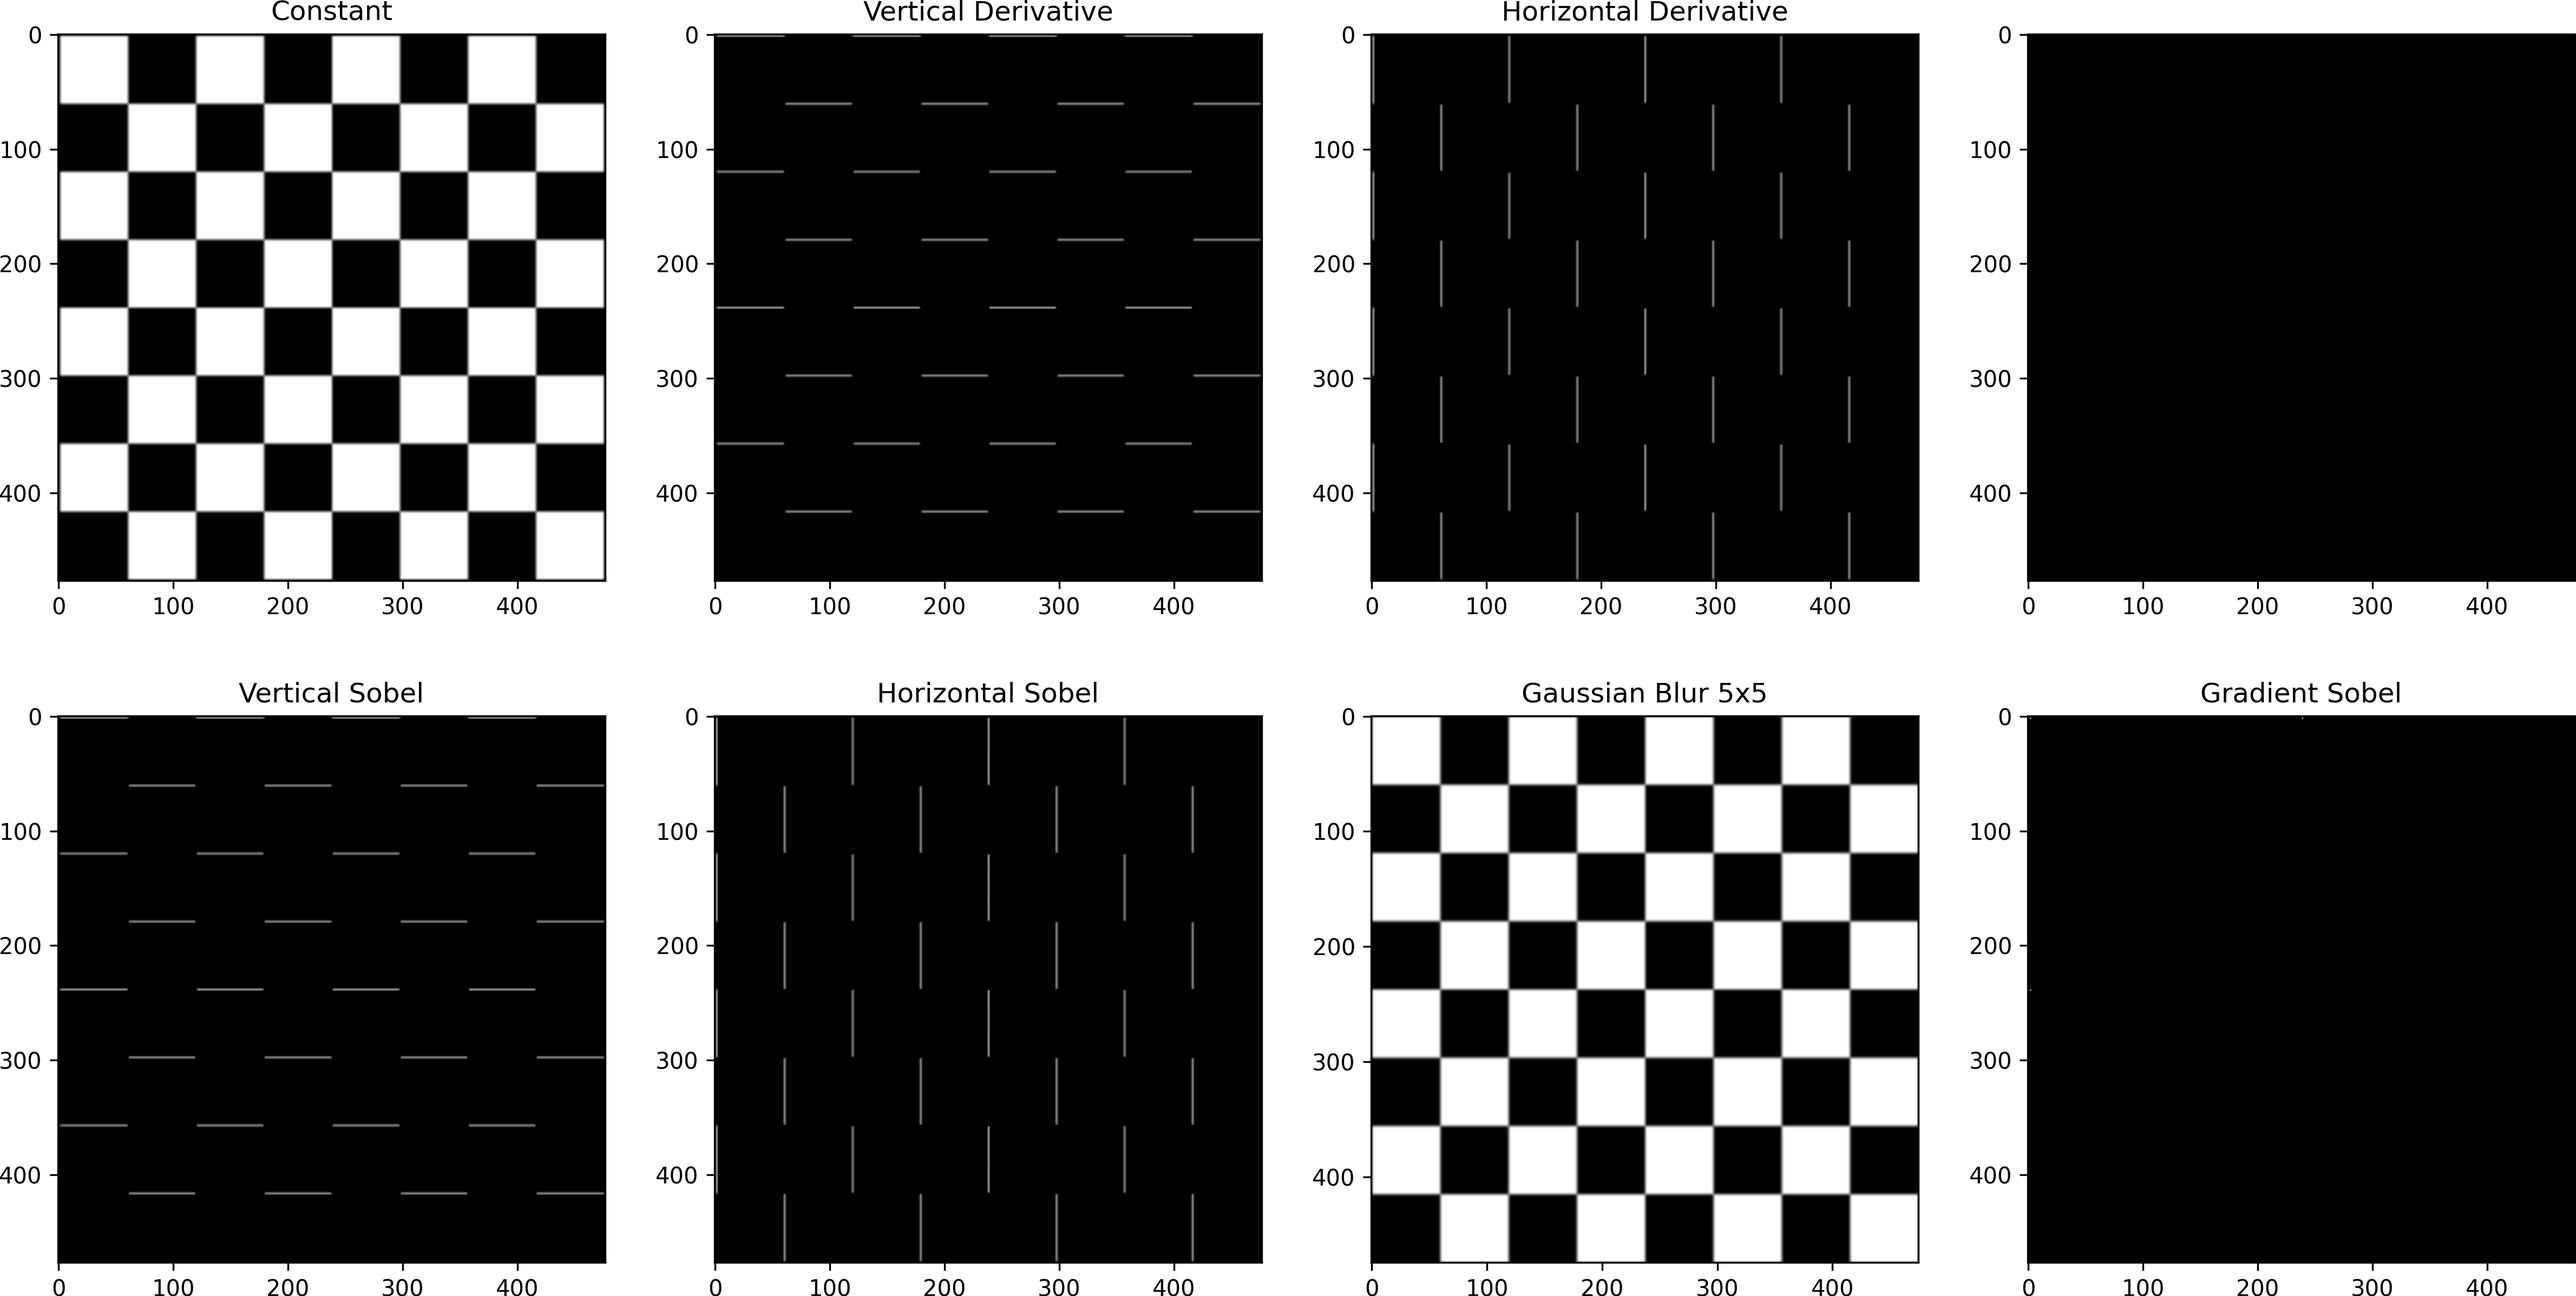
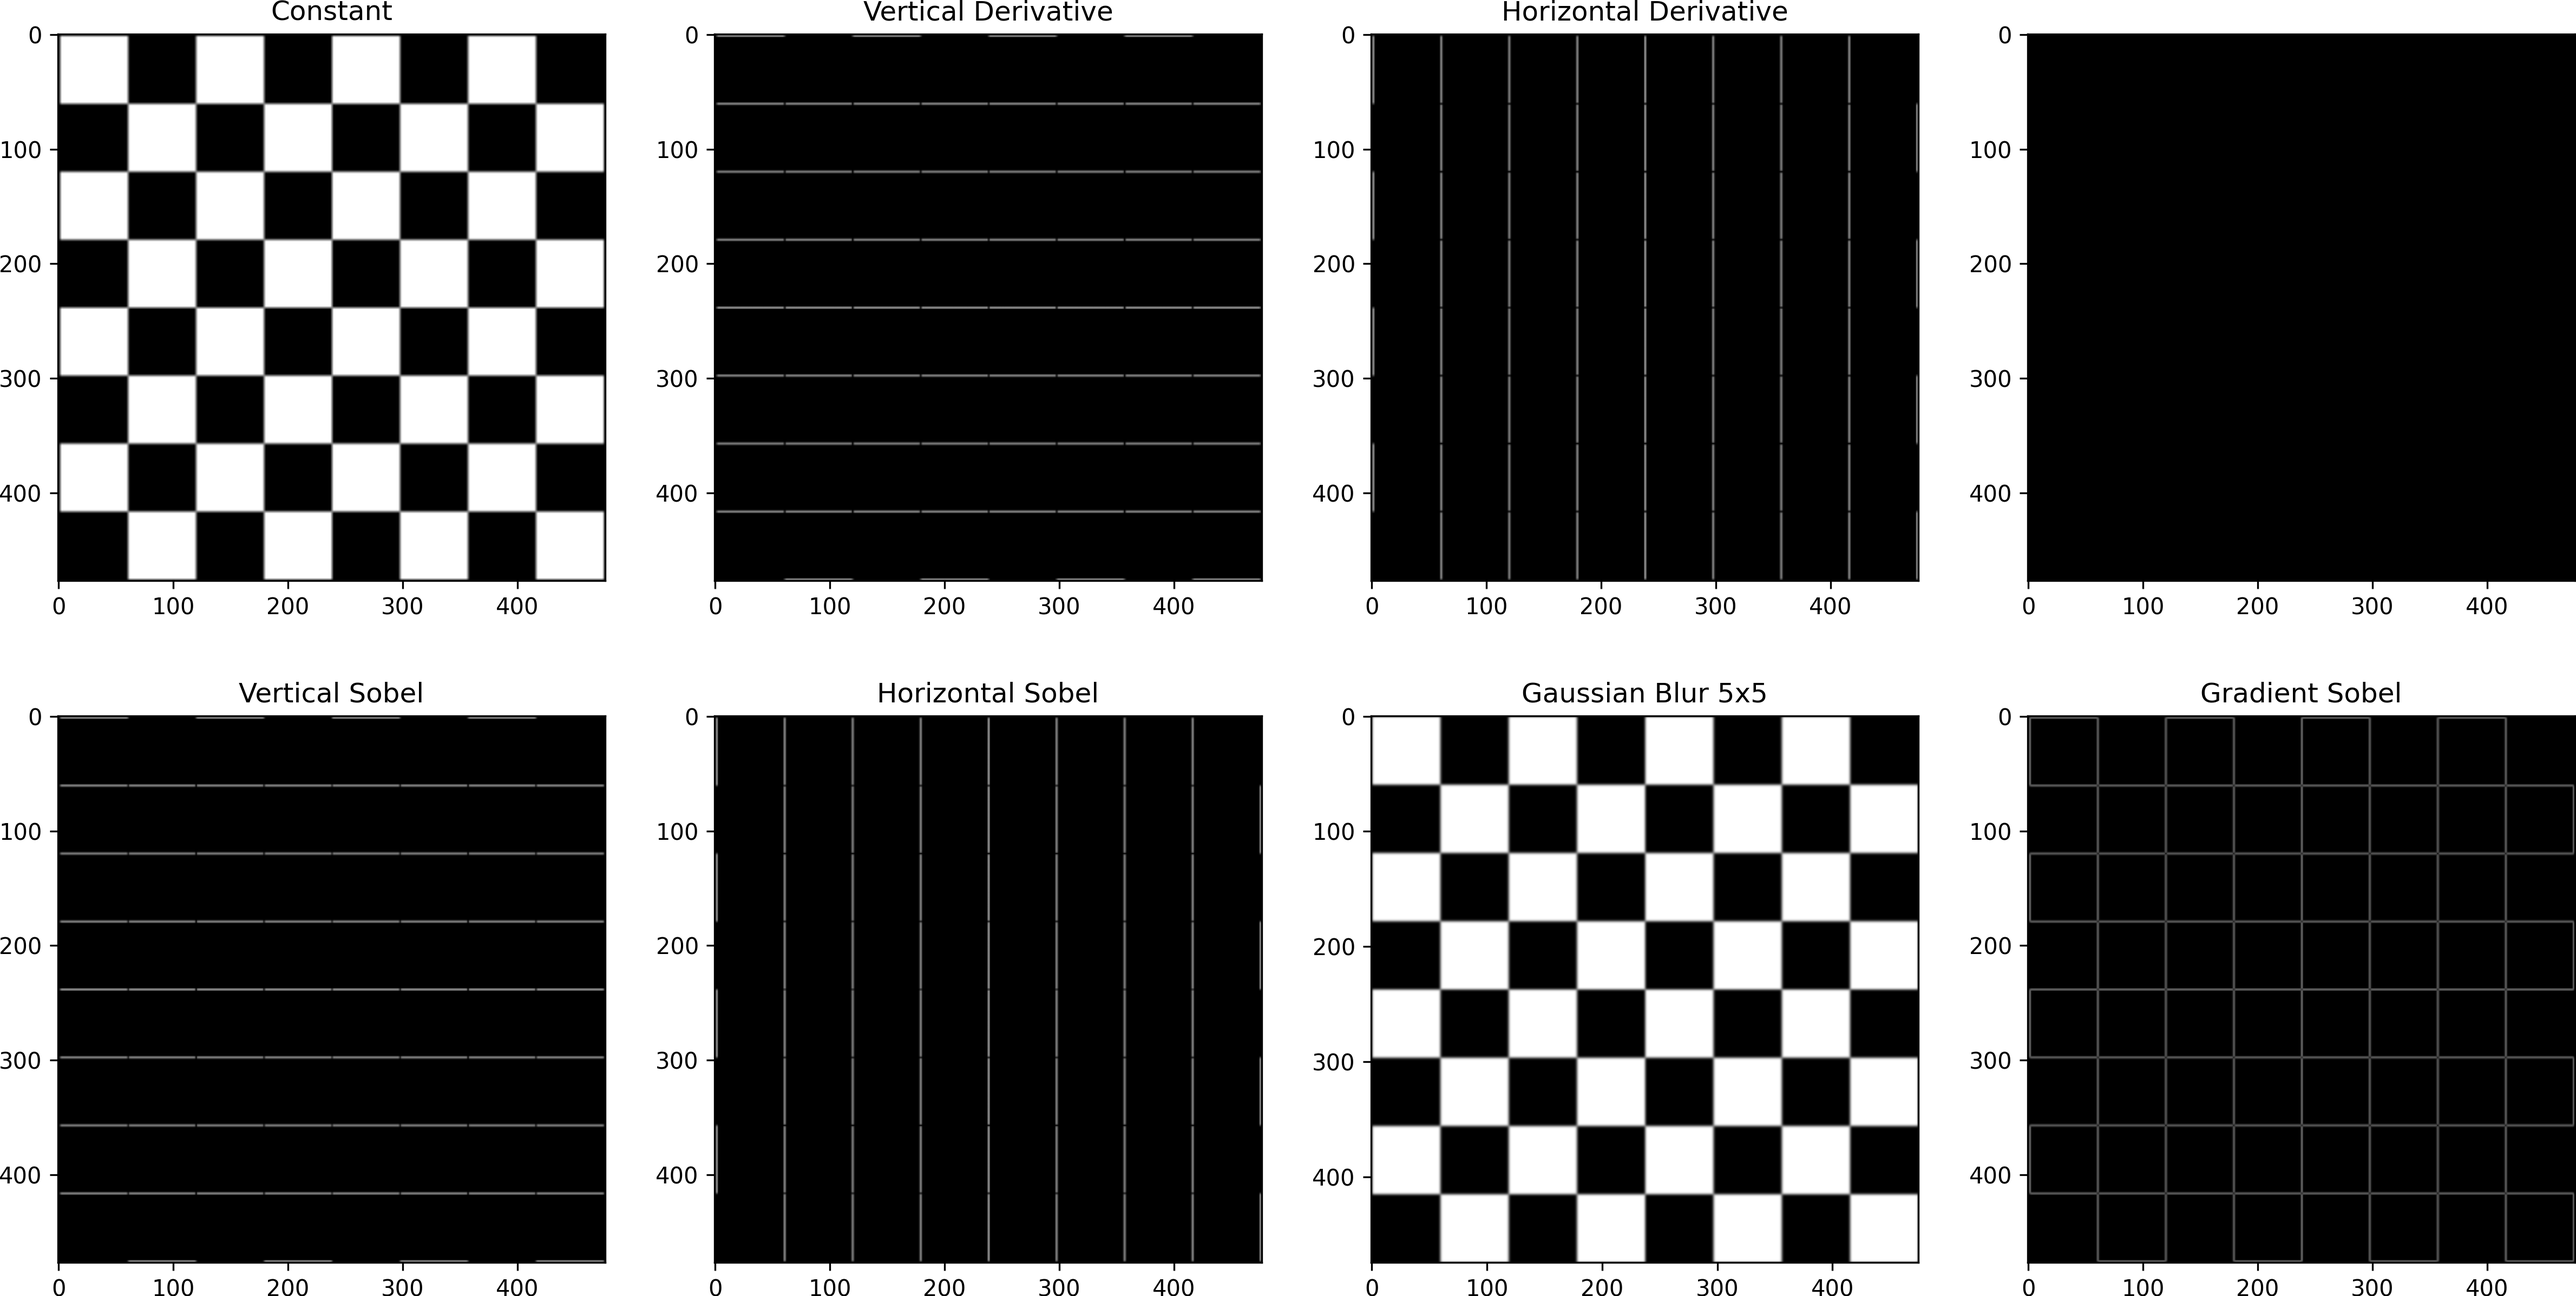
fix: round on applyFilter of question3

diff --git a/Exercicio3/scripts.py b/Exercicio3/scripts.py
@@ -96,7 +96,7 @@ def applyFilter(img, filter, convertToColor=True):
     imgFiltered = np.zeros((width - widthf, height - heightf))
     for i in range(0, width - widthf):
         for j in range(0, height - heightf):
-            imgFiltered[i, j] = np.sum(img[i:i+widthf, j:j+heightf] * filter)
+            imgFiltered[i, j] = np.abs(np.sum(img[i:i+widthf, j:j+heightf] * filter))
     imgFiltered = np.clip(imgFiltered, 0, 1)
 
     if not convertToColor:
@@ -122,7 +122,7 @@ def questao3():
     img = cv.imread(img2_filename)
     imgGrey = (np.mean(img, axis=2) / 255)
     imgs = [applyFilter(imgGrey, f, convertToColor=False) for f in filters]
-    imgs.append(np.round(np.sqrt(imgs[3]**2 + imgs[4]**2)))
+    imgs.append(np.sqrt((imgs[3]**2 + imgs[4]**2) / 2))
 
     cols = 4
     rows = int(np.ceil(len(filters) / cols))
